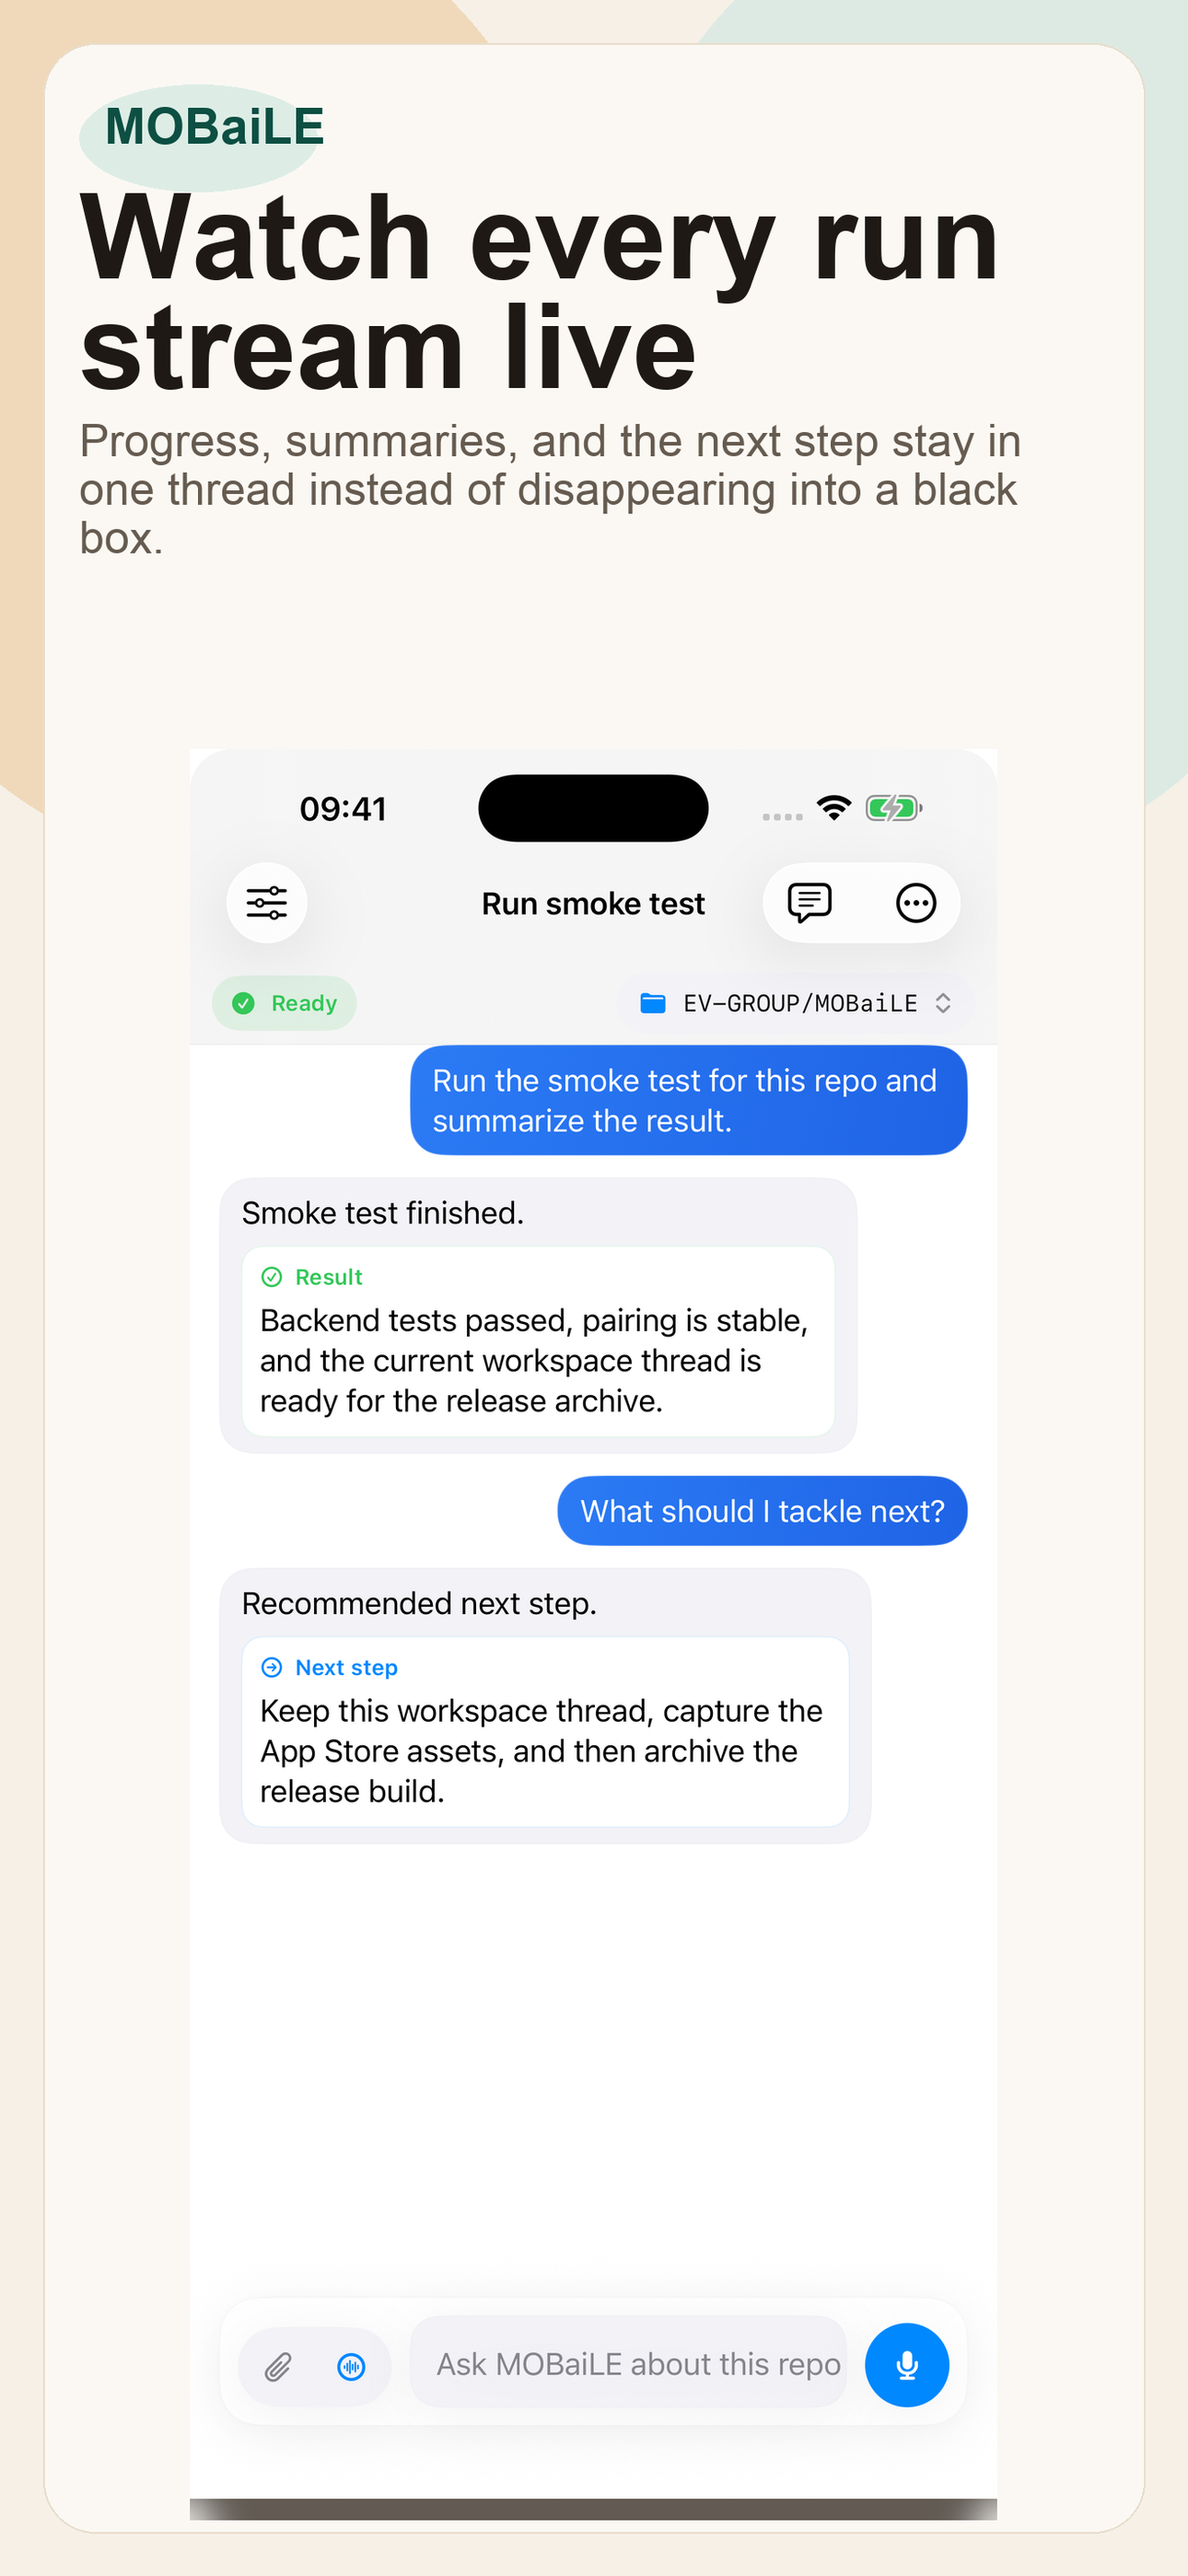
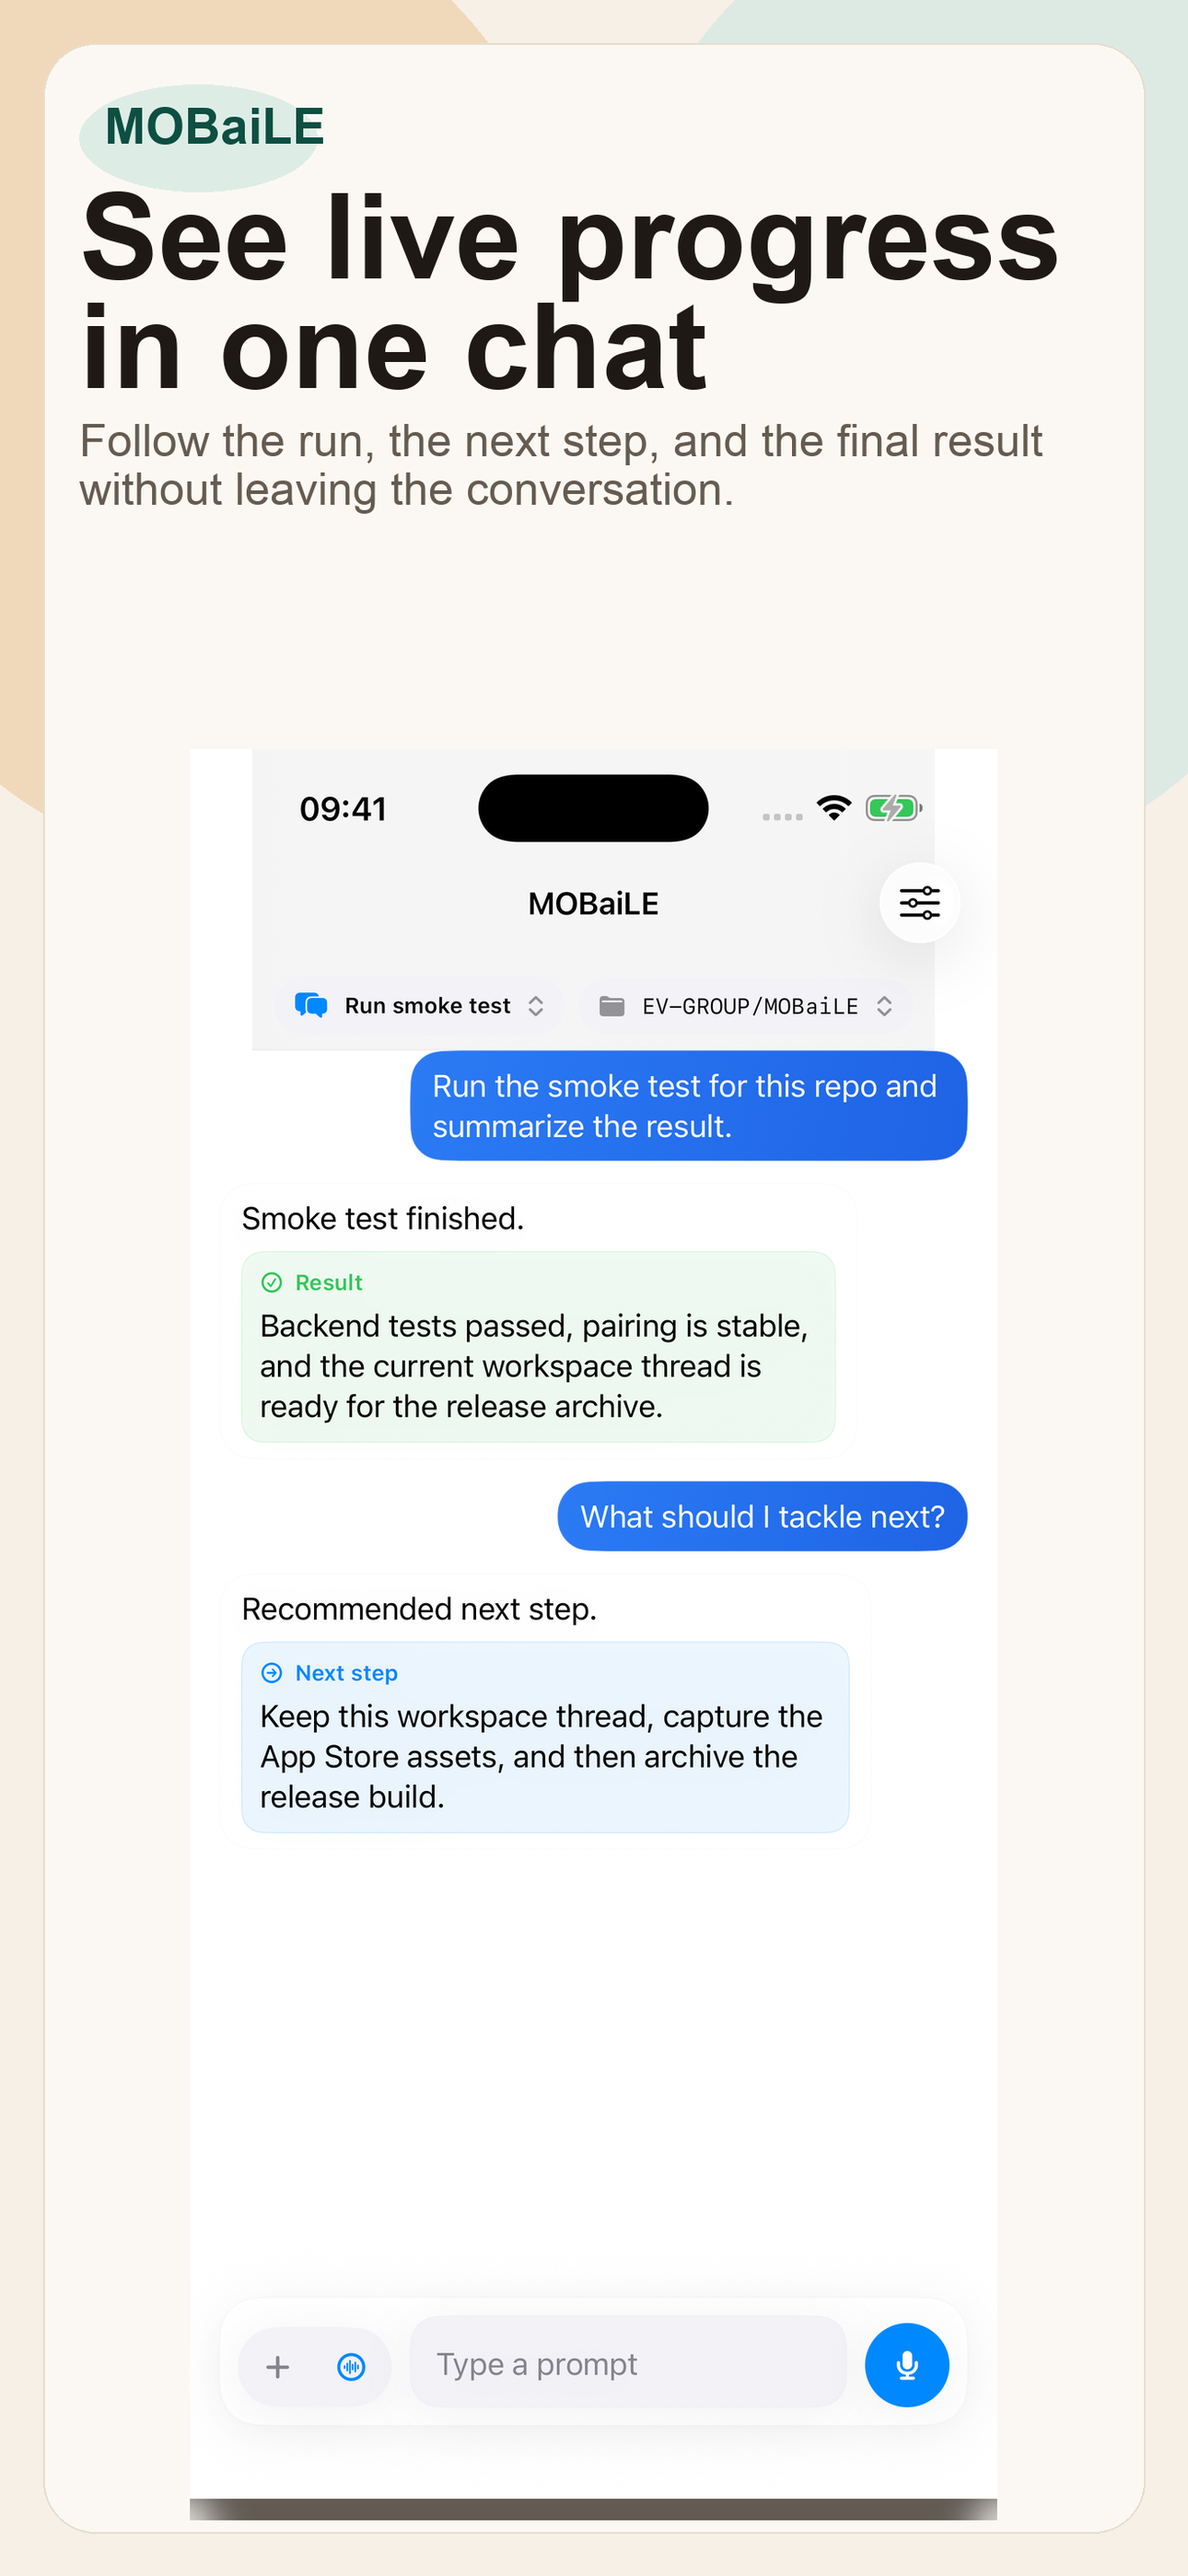
Prepare App Store 1.1.0 release

diff --git a/scripts/render_app_store_screenshots.py b/scripts/render_app_store_screenshots.py
@@ -8,24 +8,24 @@ from PIL import Image, ImageDraw, ImageFilter, ImageFont
 
 COPY = {
     "01-configured-empty": {
-        "headline": "Your computer,\nin your pocket",
-        "body": "Start a task from iPhone and keep every run anchored to your own machine.",
+        "headline": "Run tasks on\nyour computer",
+        "body": "Pair your Mac or Linux machine once, then send the next task from iPhone.",
     },
     "02-live-conversation": {
-        "headline": "Watch every run\nstream live",
-        "body": "Progress, summaries, and the next step stay in one thread instead of disappearing into a black box.",
+        "headline": "See live progress\nin one chat",
+        "body": "Follow the run, the next step, and the final result without leaving the conversation.",
     },
     "03-voice-recording": {
-        "headline": "Capture voice tasks\nhands-free",
-        "body": "Record, review, and send with inline attachments, haptics, and auto-send after silence.",
+        "headline": "Send voice tasks\nhands-free",
+        "body": "Speak the request, add context, and auto-send after a short pause.",
     },
     "04-settings": {
-        "headline": "Dial in the setup\nonce, then move",
-        "body": "Connection, voice, and support controls stay in one native settings sheet.",
+        "headline": "Pair once.\nTune it in-app.",
+        "body": "Backend, runtime, voice, and appearance controls stay in one native settings sheet.",
     },
     "05-threads": {
-        "headline": "Keep work ready\nacross threads",
-        "body": "Jump between active conversations without losing workspace context or the next follow-up.",
+        "headline": "Keep work split\nby chat",
+        "body": "Switch between active tasks without losing workspace context or follow-ups.",
     },
 }
 

diff --git a/docs/APP_STORE_COPY.md b/docs/APP_STORE_COPY.md
@@ -5,39 +5,39 @@ This file is the copy pack for the current MOBaiLE App Store submission.
 ## Listing Metadata
 
 - Name: `MOBaiLE`
-- Subtitle: `Your computer in your pocket`
+- Subtitle: `Run tasks on your own machine`
 - Promotional text:
-  `Start work from iPhone, run it on your own Mac or Linux machine, and follow every step live.`
+  `Pair your Mac or Linux machine, send text or voice tasks, and follow live progress from iPhone.`
 - Keywords:
-  `developer,terminal,remote,voice,repo,coding,productivity,automation,assistant`
+  `developer,remote,coding,terminal,voice,assistant,git,linux,mac,agent`
 
 ## Store Description
 
-MOBaiLE is a handheld agent-control app for your own computer.
+MOBaiLE lets you start and follow developer tasks on a paired Mac or Linux machine from your iPhone.
 
-Pair the app with a backend running on your Mac or Linux machine, then send a text or voice request, keep it anchored to a working directory, and watch planning, execution, and results stream back live in one thread.
+Send a text or voice request, keep it tied to the right workspace, and see live progress, results, and follow-ups in one chat.
 
 What you can do:
-- Inspect a repo when you are away from the keyboard
-- Run a smoke test and get the summary back in one place
-- Dictate a task from your phone and send it hands-free
-- Keep conversation history, run logs, and artifacts together
-- Switch workspaces and keep future tasks pointed at the right folder
+- Kick off repo checks and smoke tests when you are away from the keyboard
+- Watch live activity and final output in the same conversation
+- Send voice tasks hands-free and auto-send after a short pause
+- Keep separate chats anchored to the right workspace
+- Reconnect, retry, or inspect run details when something needs attention
 
 MOBaiLE is a client for a backend you configure and control. The app does not execute code on-device. It sends prompts, audio, attachments, and related metadata to the backend you pair with.
 
 ## Screenshot Captions
 
-1. `Your computer, in your pocket`
-   `Start a task from iPhone and keep every run anchored to your own machine.`
-2. `Watch every run stream live`
-   `Progress, summaries, and the next step stay in one thread instead of disappearing into a black box.`
-3. `Capture voice tasks hands-free`
-   `Record, review, and send with inline attachments, haptics, and auto-send after silence.`
-4. `Dial in the setup once, then move`
-   `Connection, voice, and support controls stay in one native settings sheet.`
-5. `Keep work ready across threads`
-   `Jump between active conversations without losing workspace context or the next follow-up.`
+1. `Run tasks on your own computer`
+   `Pair your Mac or Linux machine once, then send the next task from iPhone.`
+2. `See live progress in one chat`
+   `The run, the next step, and the final result stay in the same conversation.`
+3. `Send voice tasks hands-free`
+   `Speak the request, add context, and auto-send after a short pause.`
+4. `Tune connection and runtime in-app`
+   `Backend, voice, appearance, and runtime controls stay in one native settings sheet.`
+5. `Keep every task in the right chat`
+   `Switch between active workspaces without losing context or the next follow-up.`
 
 ## Public URLs
 
@@ -60,11 +60,11 @@ Functional review:
 3. Enter the review backend URL and API token supplied for App Review.
 4. Keep Session ID as `iphone-app`.
 5. Return to the main screen and send:
-   `create a hello world python script and run it`
+   `map the repo and summarize the current workspace`
 
 Expected behavior:
 - the app sends the request to the paired backend
-- progress appears in the conversation
+- live progress appears in the conversation
 - a final summary is returned in the same thread
 
 ## Claims To Avoid

diff --git a/fastlane/SCREENSHOT_CAPTIONS.md b/fastlane/SCREENSHOT_CAPTIONS.md
@@ -3,15 +3,15 @@
 Use the generated screenshots in this order for the iPhone App Store slots:
 
 1. `01-configured-empty-*.png`
-   Caption: `Pair once. Pick up where you left off.`
+   Caption: `Run tasks on your own computer.`
 2. `02-live-conversation-*.png`
-   Caption: `See live progress and final results in one thread.`
+   Caption: `See live progress in one chat.`
 3. `03-voice-recording-*.png`
-   Caption: `Record voice tasks and send them hands-free.`
+   Caption: `Send voice tasks hands-free.`
 4. `04-settings-*.png`
-   Caption: `Tune connection, voice, and runtime behavior in-app.`
+   Caption: `Tune connection and runtime in-app.`
 5. `05-threads-*.png`
-   Caption: `Keep every task anchored to the right workspace thread.`
+   Caption: `Keep every task in the right chat.`
 
 Generate the source screenshots with:
 
